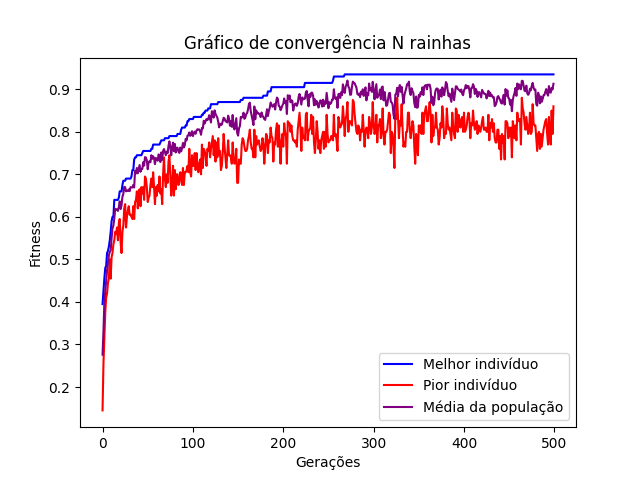
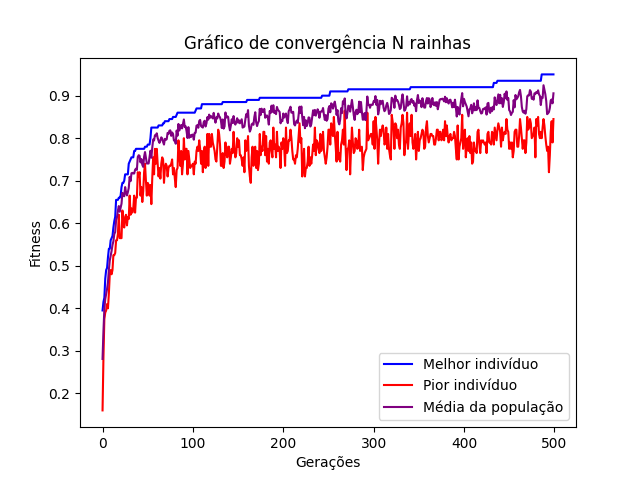
rainhas ok

diff --git a/n_rainhas/n_rainhas.py b/n_rainhas/n_rainhas.py
@@ -276,12 +276,6 @@ def main():
     global MAXIMIZAR, RUN, GEN
 
     populacao = populacao_inicial()
-    populacao.printa()
-    print(populacao.melhor.fitness)
-    a=[]
-    for i in range(DIM):
-        a.append(i)
-    print(Individuo(a).fitness)
 
     crossover(populacao)
     
@@ -289,17 +283,17 @@ def main():
     pior_ex = []
     media_ex = []
     for execucao in range(RUN):
+        populacao = populacao_inicial()
         melhor_it = []
         pior_it = []
         media_it = []
         for iteracao in range(GEN):
             melhorInd = populacao.melhor
-
             melhor_it.append(melhorInd.fitness)
             pior_it.append(populacao.pior.fitness)
-            media_it.append(populacao.somaFitness/GEN)
+            media_it.append(populacao.somaFitness/POP)
 
-            print(execucao, iteracao)
+            print("RUN:",execucao,"  GEN:", iteracao)
 
             pop_selecao = selecao_torneio(populacao)
             pop_crossover = crossover(pop_selecao)
@@ -326,15 +320,14 @@ def main():
         x_pior.append(pior_ex[i]/RUN)
         x_media.append(media_ex[i]/RUN)
 
-    y=[]
-    for i in range(GEN):
-        y.append(i)
-    print(y)
-    plt.plot(x_melhor)
-    plt.plot(x_pior)
-    plt.plot(x_media)
+    plt.plot(range(GEN),x_melhor, label = 'Melhor indivíduo', color = 'blue')
+    plt.plot(range(GEN),x_pior, label = 'Pior indivíduo', color = 'red')
+    plt.plot(range(GEN),x_media, label = 'Média da população', color = 'purple')
+    plt.legend()
     plt.ylabel('Fitness')
-    #plt.xlabel('Gerações')
+    plt.xlabel('Gerações')
+    plt.title('Gráfico de convergência N rainhas')
+    #plt.title('Fitness do melhor indivíduo: ' + str(round(max(x_melhor),2)))
     plt.savefig('grafico_convergencia.png')
     plt.show()
  
